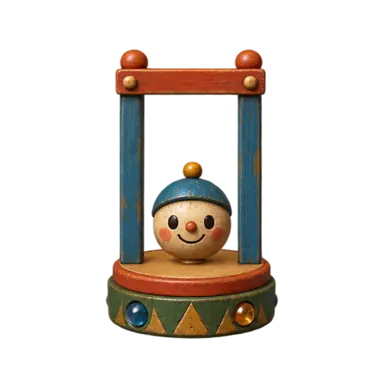
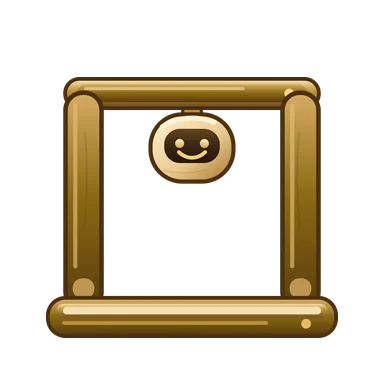
feat: generate retro Hangman illustrations

diff --git a/docs/design/game-art-fidelity-ledger.md b/docs/design/game-art-fidelity-ledger.md
@@ -207,3 +207,17 @@ Accepted ten distinct first-pass built-in image generations after native-resolut
 Contact-sheet order is pawn-1 through pawn-4, then d4, d6, d8, d10, d12, d20. Stage remains `generation-batches`: 65 completed custom records, 43 `generationPending` custom records, and nine unchanged `authorityReferencePending` quarter slots. All 117 production sprites total 869,166 bytes; the largest remains the inherited 17,732-byte Arcade Hangman stage 6, below the 2 MiB total and 64 KiB per-file limits.
 
 Only these ten records, sources, finals, and four QA sheets belong to this batch. No catalog, registry, validator, dependency, or gameplay change was needed, and this inspection does not claim a fresh browser gameplay audit.
+
+## Task 2I Retro Hangman illustrations — 2026-09-28
+
+Accepted seven deterministic Retro Hangman illustrations from the shared fixed-progression authoring model. The theme entrypoint applies honey-brown painted wood, cream peg-doll surfaces, warm brass details, rounded carved bevels, restrained grain, light age and upper-left highlights over the exact accepted Modern alpha geometry. The friendly face and all connected pieces remain clear without threatening imagery, text, labels, background, checkerboard, ground plane, cast shadow, clipping or extra object.
+
+| Inspection | Evidence and result |
+| --- | --- |
+| Original sources | All seven 1024×1024 true-alpha PNGs were inspected individually and together at original detail through a loss-minimized inline fallback after `view_image` failed because bubblewrap is unavailable. The ordered progression is platform, posts, crossbar, cheerful connected head, rounded torso, short arms, then connected feet resting on the platform. Light grain and age remain inside the silhouettes and do not obscure their forms. |
+| Shared geometry and retention | Every Retro alpha mask is pixel-identical to its Modern counterpart. Every source has the exact x=123..900 platform bounds (778px), bottom edge y=901, 75.9766% longest-bound fill, 123px left/right/bottom padding, transparent corners, no edge contact, and one meaningful component containing 100% of connected foreground. Opaque prior-stage pixels remain byte-identical and visible pixels increase monotonically from 84,992 to 366,866. All seven accepted Modern source PNGs and final WebPs remain byte-identical and independently reproduce 7/7 plus 7/7. |
+| Production-size light/dark | [Light](qa/retro-hangman-full-light.webp) and [dark](qa/retro-hangman-full-dark.webp) sheets show the exact seven 384px final WebPs in stage order. Warm painted wood, cream body, brass details, complete silhouettes and each addition remain distinct on both backgrounds. |
+| Phone-size readability | [Light](qa/retro-hangman-phone-light.webp) and [dark](qa/retro-hangman-phone-dark.webp) 160px-cell sheets keep the fixed frame, smile, torso, arms and feet unmistakable. The cream face/body and warm highlights preserve contrast without relying on a cast shadow or glow. |
+| Final geometry and budget | All seven finals use source union `{ left: 123, top: 206, width: 778, height: 695 }`, one downscale-only factor and output base y=338. Each has 76.0417% longest-bound fill, at least 11.98% padding, one meaningful component containing 100% of connected foreground, transparent corners, no edge contact and a distinct hash. Batch finals total 48,218 bytes; largest final is 11,274 bytes. Sources total 324,298 bytes and remain outside the runtime budget. |
+
+Stage remains `generation-batches`: 72 completed custom records, 36 `generationPending` custom records, and nine unchanged `authorityReferencePending` quarter slots. Only the seven Retro Hangman records gained completion timestamps and `scripts/generate-retro-hangman.mjs` provenance. All 117 production sprites total 844,266 bytes; the largest remains the inherited 17,732-byte Arcade Hangman stage 6, below the 2 MiB total and 64 KiB per-file limits. Arcade Hangman and every other pending role remain unchanged. This batch changes artwork and authoring contracts only; it does not alter Hangman gameplay or claim a fresh browser gameplay audit.

diff --git a/docs/design/game-art-production.md b/docs/design/game-art-production.md
@@ -63,13 +63,14 @@ Do not replace status flags with `false`; remove the property when the real sour
 
 ### Approved deterministic Hangman authoring
 
-Modern Hangman uses `scripts/generate-modern-hangman.mjs` after independent generation, reference editing, checker-matte recovery, and shared-sheet generation could not preserve the fixed progression geometry. This Node 22/Sharp authoring tool renders seven separate 1024px true-alpha PNGs from one SVG geometry model with conditional stage groups:
+Modern and Retro Hangman use `scripts/generate-modern-hangman.mjs` and `scripts/generate-retro-hangman.mjs`. Both theme entrypoints delegate source framing, stage validation, conditional layer order, and 1024px Sharp rendering to `scripts/hangman-geometry.mjs`; each entrypoint supplies theme-styled SVG group definitions, while focused alpha-mask parity tests enforce the exact same fixed geometry. The Modern fragments remain unchanged and byte-pinned, while Retro supplies painted honey-brown wood, cream peg-doll surfaces, brass details, restrained grain and light age:
 
 ```sh
 node scripts/generate-modern-hangman.mjs
+node scripts/generate-retro-hangman.mjs
 ```
 
-The shared front-orthographic assembly fixes the 778px-wide platform at x=123..900 with bottom edge y=901. Later stages retain the exact platform/frame definitions and add posts, crossbar, connected friendly head, torso, arms, then feet. Additions are layered behind existing pieces so established opaque pixels remain byte-identical. The output uses no runtime dependency, text, baked interface, background, ground plane, cast shadow, or threatening imagery. After reviewing all seven individual PNGs, remove only their `generationPending` flags, record real dates plus the generator identifier, and normalize them together with `normalizeHangmanGroup`; all normal fill, padding, connected-component, distinctness, safety, and byte-budget gates remain unchanged.
+The shared front-orthographic assembly fixes the 778px-wide platform at x=123..900 with bottom edge y=901. Later stages retain the exact platform/frame definitions and add posts, crossbar, connected friendly head, torso, arms, then feet. Additions are layered behind existing pieces so established opaque pixels remain byte-identical. The output uses no runtime dependency, text, baked interface, background, ground plane, cast shadow, or threatening imagery. After reviewing all seven individual PNGs, remove only their `generationPending` flags, record real dates plus the theme entrypoint identifier, and normalize them together with `normalizeHangmanGroup`; all normal fill, padding, connected-component, distinctness, safety, and byte-budget gates remain unchanged.
 
 Generate one object or stage per source image, on a square canvas with genuine alpha. Prompts should specify the approved theme material, semantic owner/color, consistent camera and lighting, a complete silhouette, no text/watermark/ground plane, and a longest visible bound occupying 72–80% of the canvas. Dice faces remain blank so the application can render values. Hangman stages share scene framing and base placement; visual QA must confirm progression and reject rope/noose imagery. Quarter faces and edge use authoritative reference imagery in Task 3.
 
